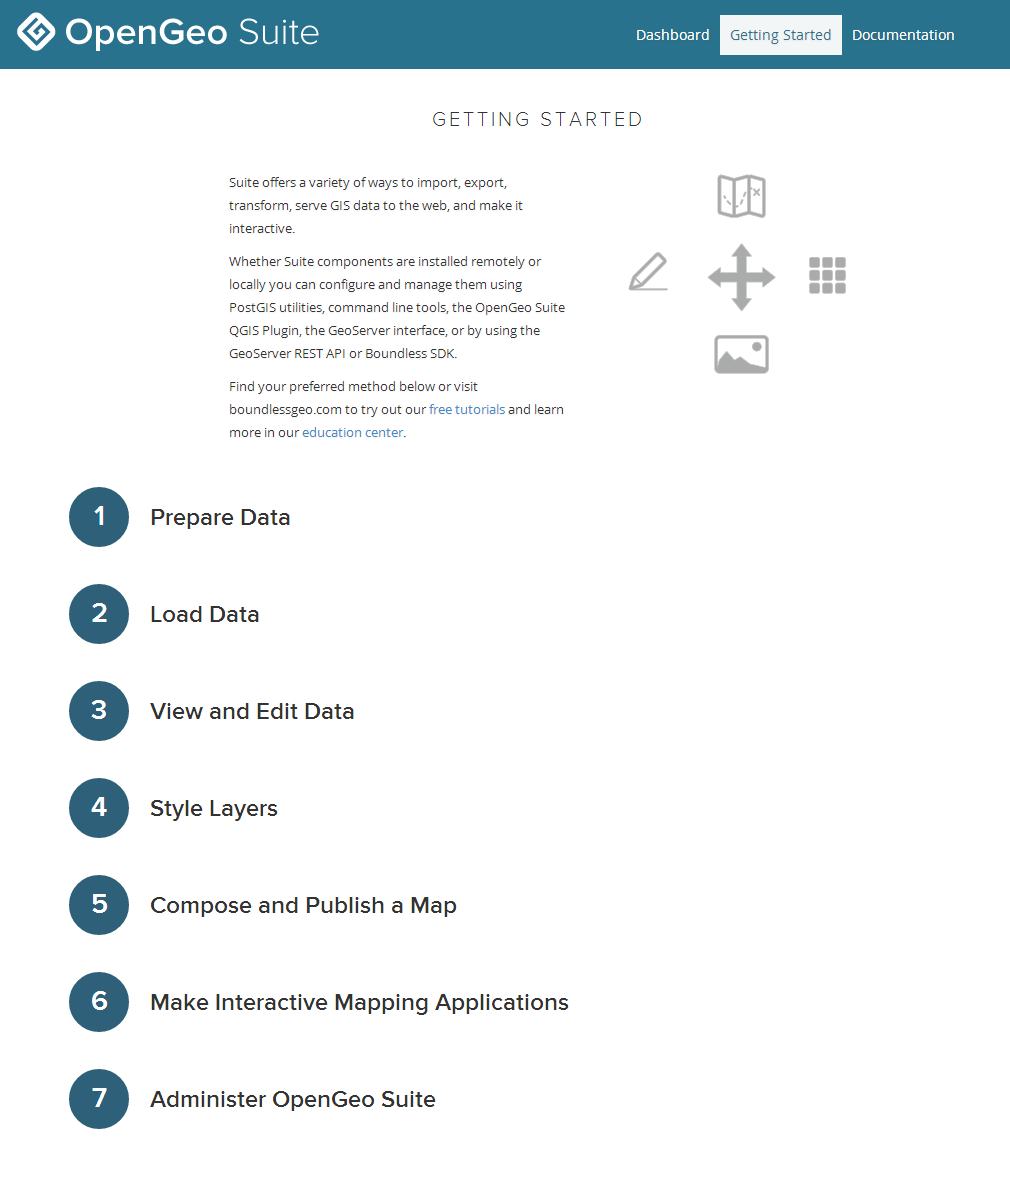
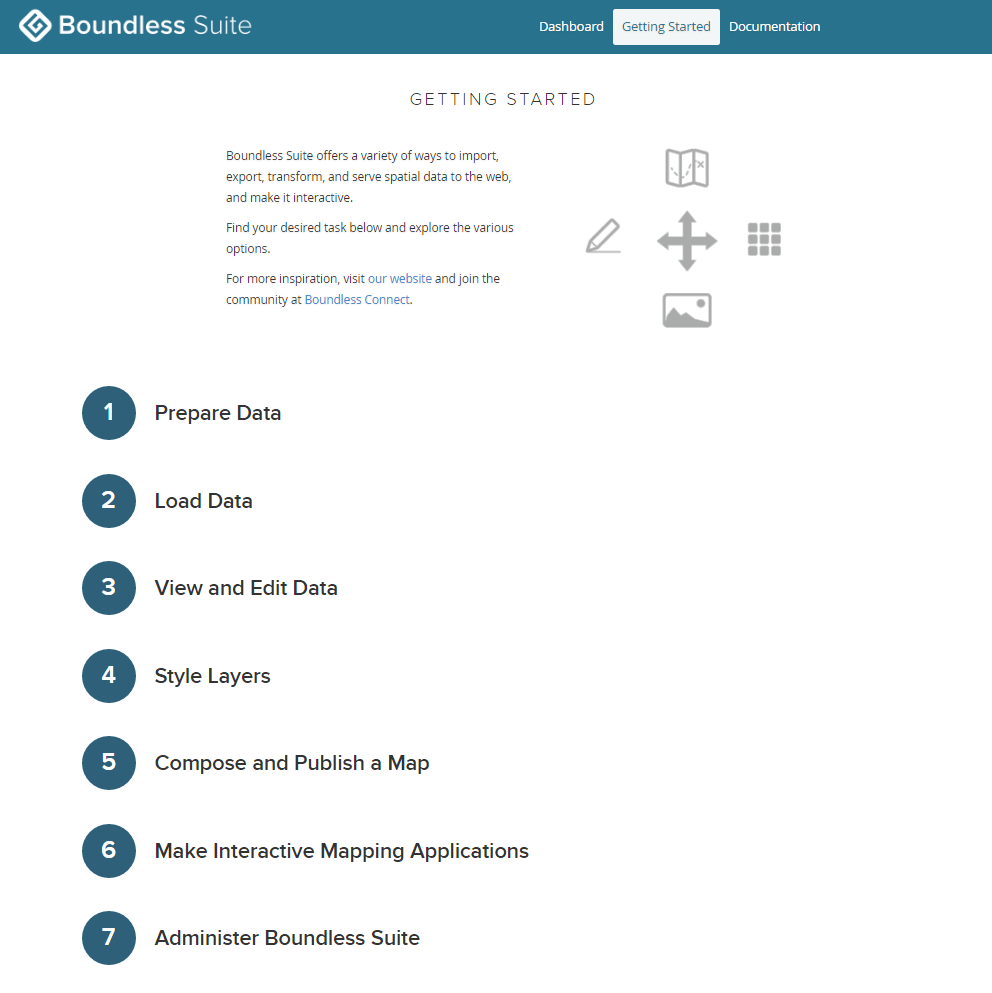
Updating intro section

diff --git a/docs/usermanual/source/intro/extensions.rst b/docs/usermanual/source/intro/extensions.rst
@@ -5,15 +5,7 @@ Boundless Suite extensions
 
 Boundless Suite comes with a number of optional extensions or "add-ons". These add functionality to Boundless Suite, but may not be needed by most users. We recommend that you choose only the extensions that you need.
 
-These optional components can be selected in different ways depending on your operating system:
-
-* **Windows**: Extensions can be added by :ref:`manually copying the extension files <install.windows.tomcat.geoserver>` after Boundless Suite is installed.
-* **OS X**: Extensions can be added by manually copying the extension files after Boundless Suite is installed.
-* **Ubuntu Linux**: Extensions can be installed via :ref:`packages <install.ubuntu.packages>`.
-* **Red Hat-based Linux**: Extensions can be installed by via :ref:`packages <install.redhat.packages>`.
-
-For users of Boundless Suite for Application Servers, please `contact Boundless <http://boundlessgeo.com/about-us/contact/>`_ to receive access to the extensions and information on how to install them.
-  
+These optional components can be installed in different ways depending on your operating system. Please see the appropriate :ref:`installation <install>` section.
 
 .. _intro.extensions.appschema:
 

diff --git a/docs/usermanual/source/intro/sampledata.rst b/docs/usermanual/source/intro/sampledata.rst
@@ -36,7 +36,7 @@ Medford
 
 The city of Medford, in the United States state of Oregon, has generously shared some of their public domain municipal data.
 
-.. note:: To install the data download `medford.zip <http://data.opengeo.org/medford.zip>`_ and unpack it into the root of the GeoServer data directory.
+.. note:: To install the data download `medford.zip <http://data.boundlessgeo.com/medford.zip>`_ and unpack it into the root of the GeoServer data directory.
 
 The following layers are available in the Medford dataset:
 
@@ -127,7 +127,7 @@ World
 
 A variety of world wide datasets compiled from a number of sources.
 
-.. note:: To install the data download `world.zip <http://data.opengeo.org/world.zip>`_ and unpack it into the root of the GeoServer data directory.
+.. note:: To install the data download `world.zip <http://data.boundlessgeo.com/world.zip>`_ and unpack it into the root of the GeoServer data directory.
 
 .. note:: The world data bundle contains styles that require the GeoServer WPS extensions.
 

diff --git a/docs/usermanual/source/intro/moreinfo.rst b/docs/usermanual/source/intro/moreinfo.rst
@@ -8,13 +8,12 @@ Below are links to various resources to help you learn more about Boundless Suit
 Component details
 -----------------
 
-For more information on individual components, please see Boundless's project pages:
+For more information on individual components, please see the Boundless project pages:
 
 * `PostGIS <http://boundlessgeo.com/solutions/solutions-software/postgis/>`_
 * `GeoServer <http://boundlessgeo.com/solutions/solutions-software/geoserver/>`_
 * `GeoWebCache <http://boundlessgeo.com/solutions/solutions-software/geowebcache/>`_
 * `OpenLayers <http://boundlessgeo.com/solutions/solutions-software/openlayers/>`_
-* `More software <http://boundlessgeo.com/solutions/solutions-software/software/>`_
 
 About Boundless
 ---------------

diff --git a/docs/usermanual/source/intro/index.rst b/docs/usermanual/source/intro/index.rst
@@ -6,7 +6,7 @@ Introduction
 This section will guide you through the basic functionality of Boundless Suite, including a tour of features and functionality. More detailed information on installation and management is available in later sections.
 
 .. toctree::
-   :maxdepth: 2
+   :maxdepth: 1
 
    whatis
    dashboard
